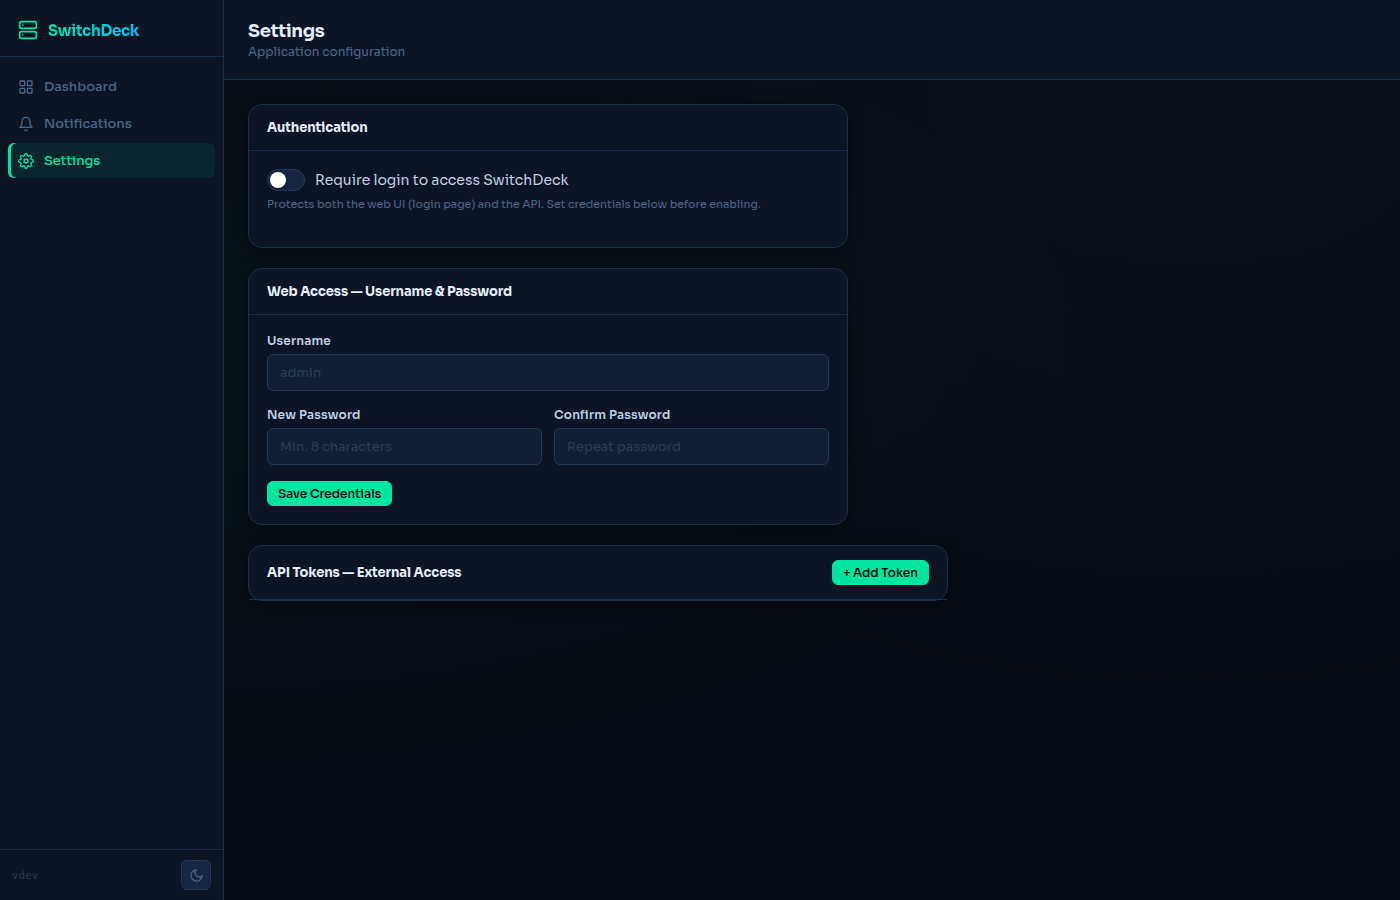
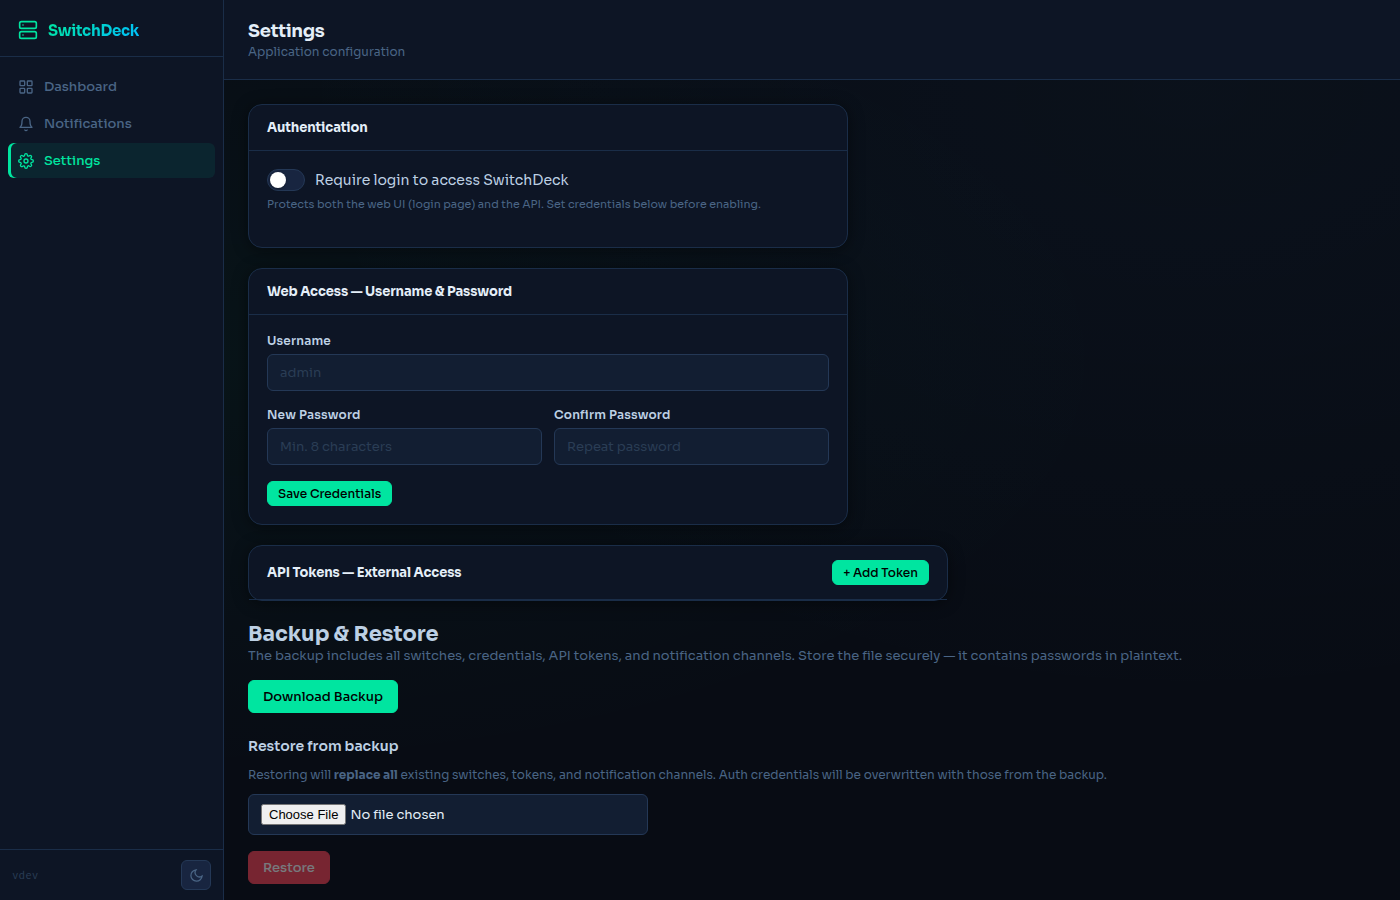
docs: refresh settings screenshot and add backup/restore screenshot

Changed region(s): [[0.1536, 0.6844, 0.8293, 0.9956]]

diff --git a/README.md b/README.md
@@ -50,6 +50,9 @@ Built in Go with an embedded web UI — a single binary, no external dependencie
 ### Settings
 ![Settings page](assets/screenshots/settings.png)
 
+### Backup & Restore
+![Backup and restore](assets/screenshots/settings-backup.png)
+
 ### Login
 ![Login page](assets/screenshots/login.png)
 
